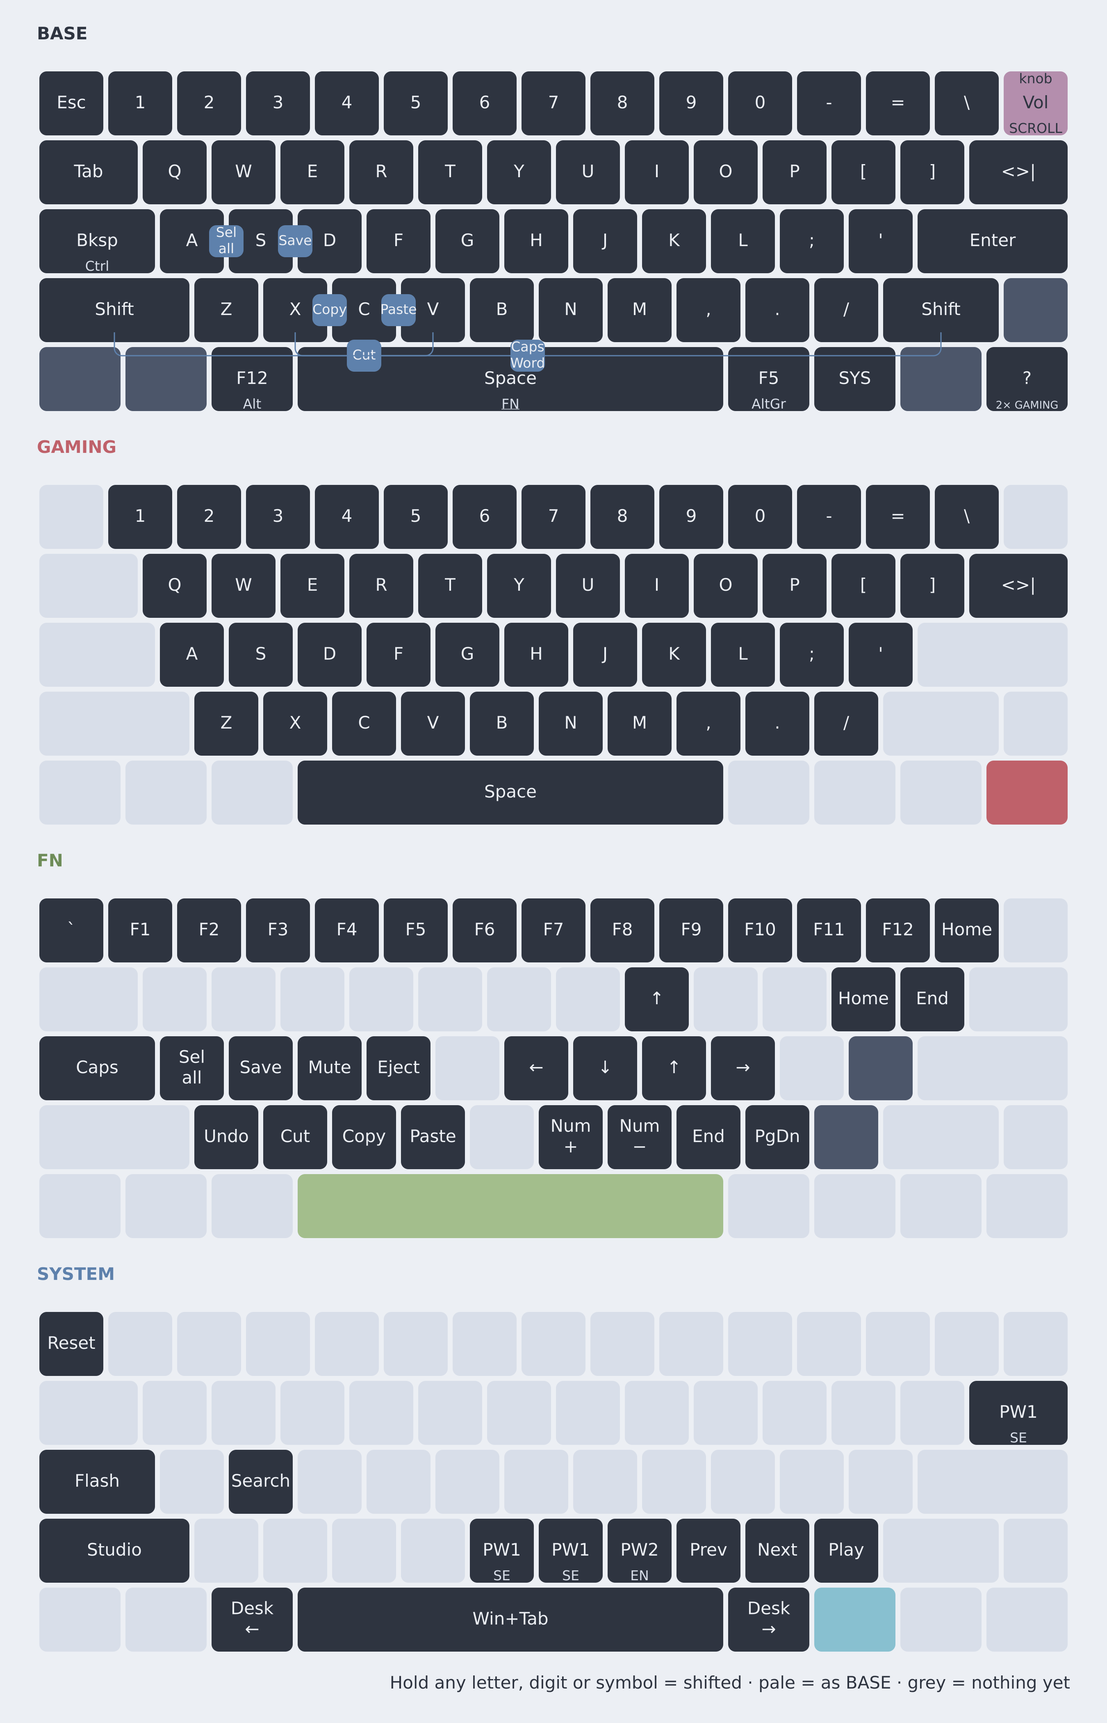
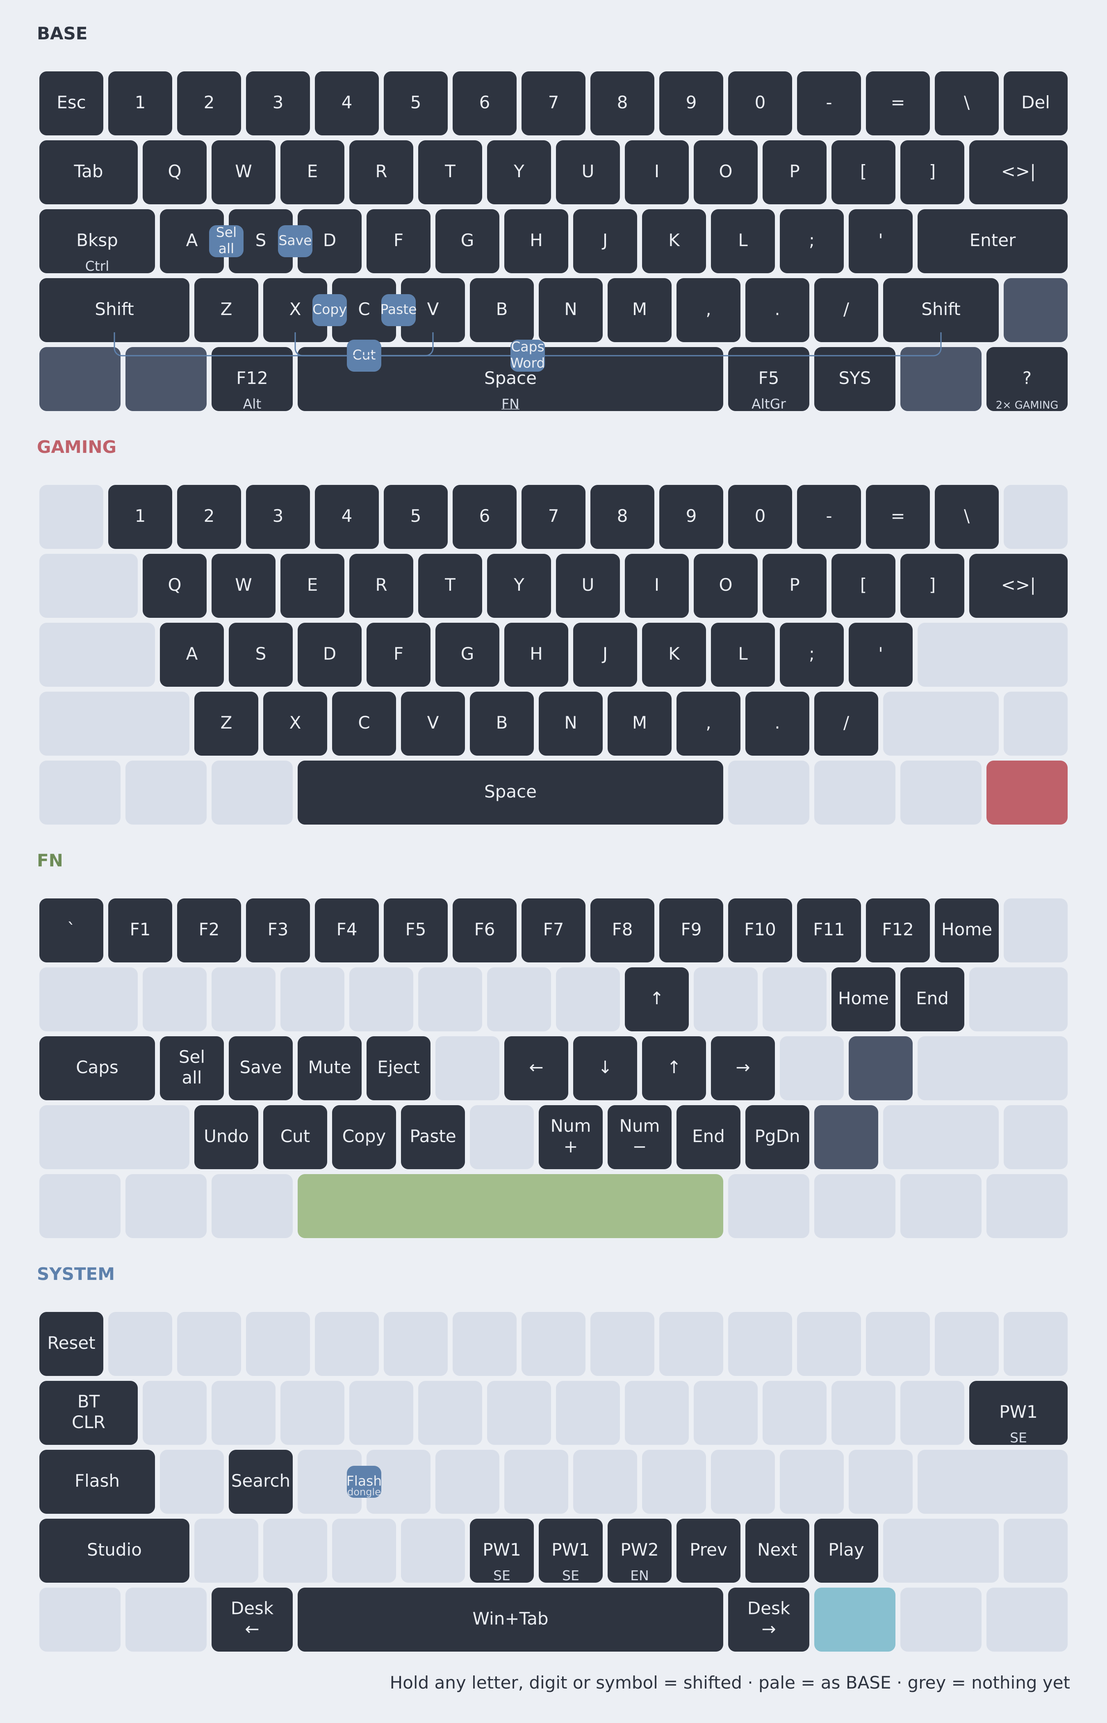
pros

Changed region(s): [[0.0311, 0.7798, 0.1244, 0.8421], [0.9022, 0.0312, 0.9644, 0.0936], [0.3111, 0.8421, 0.3422, 0.8733]]

diff --git a/boards/shields/prospector_screen/src/layouts/shoko/shoko_theme.h b/boards/shields/prospector_screen/src/layouts/shoko/shoko_theme.h
@@ -19,12 +19,21 @@
 #define SHOKO_PALE_D  0xC5D1DB // keycap skirt under a 656 C face
 #define SHOKO_SLATE_D 0x5C7B8E // keycap skirt under a 5425 C face
 #define SHOKO_AQUA_D  0x66BCD8 // keycap skirt under a 2975 C face
-#define SHOKO_NIGHT   0x16212A // GAMING ground
 #define SHOKO_CORAL   0xEE8C7F // the one warm colour: low battery only
 
+// The layer colours: the same as the keyboard's underglow
+// (layouts/operator/display_colors.h → layer_glow.c) and the keymap drawing,
+// so the screen and the keyboard always agree. Nord palette.
+#define LAYER_FN      0xA3BE8C // green
+#define LAYER_SYSTEM  0x88C0D0 // frost blue
+#define LAYER_GAMING  0xBF616A // red
+#define LAYER_SCROLL  0xB48EAD // purple
+
 // ── Scenes ───────────────────────────────────────────────────────────────────
-// Each layer gets its own scene: ground colour, inks, keycap colours, hero
-// block and katakana watermark. Scenes are matched to layers by display-name
+// Each layer gets its own scene: ground colour (BASE white like the case,
+// the others in their layer colour), inks, keycap colours, hero block and
+// katakana watermark. The mini keyboard and the WPM meter keep a clear step
+// from the ground: on the LCD, pale-on-pale disappears. Scenes are matched to layers by display-name
 // (see shoko_scene_for), so reordering layers in the keymap or Studio keeps
 // them; a layer with an unknown name gets the generic scene with its own name.
 
@@ -68,48 +77,48 @@ static const struct shoko_scene shoko_scenes[] = {
         .bg = SHOKO_WHITE, .ink = SHOKO_INK, .ink_soft = SHOKO_SLATE, .watermark = 0xF1F5F8,
         .cap = SHOKO_PALE, .cap_skirt = SHOKO_PALE_D, .cap_legend = SHOKO_SLATE,
         .cap_on = SHOKO_AQUA, .cap_on_skirt = SHOKO_AQUA_D, .cap_on_legend = SHOKO_INK,
-        .key_idle = 0xE8EEF2, .key_lit = 0xE8EEF2, .key_hot = SHOKO_AQUA_D,
-        .meter = SHOKO_AQUA,
+        .key_idle = 0xB4C4D0, .key_lit = 0xB4C4D0, .key_hot = 0x2C8DB4,
+        .meter = 0x2C8DB4,
     },
     {
-        // Aqua like Esc/Enter, white keycaps.
+        // Green, like FN's underglow; white keycaps.
         .match = "FN", .title = "FN", .caption = "F-KEYS  ARROWS  EDIT", .kana = "エフエヌ",
         .hero = SHOKO_HERO_TITLE,
-        .bg = SHOKO_AQUA, .ink = SHOKO_INK, .ink_soft = 0x3F7286, .watermark = 0x8ECFE4,
-        .cap = SHOKO_WHITE, .cap_skirt = 0x7FC6DE, .cap_legend = SHOKO_SLATE,
+        .bg = LAYER_FN, .ink = SHOKO_INK, .ink_soft = 0x4A6838, .watermark = 0x97B47F,
+        .cap = SHOKO_WHITE, .cap_skirt = 0x8BA873, .cap_legend = 0x4A6838,
         .cap_on = SHOKO_INK, .cap_on_skirt = 0x1A2B35, .cap_on_legend = SHOKO_WHITE,
-        .key_idle = 0x86CBE2, .key_lit = SHOKO_WHITE, .key_hot = SHOKO_INK,
+        .key_idle = 0x7C9A64, .key_lit = SHOKO_WHITE, .key_hot = SHOKO_INK,
         .meter = SHOKO_WHITE,
     },
     {
-        // Slate like the Shoko mods, pale legends.
+        // Frost blue, like SYSTEM's underglow; white keycaps.
         .match = "SYSTEM", .title = "SYS", .caption = "MEDIA  DESKTOPS  STUDIO", .kana = "システム",
         .hero = SHOKO_HERO_TITLE,
-        .bg = SHOKO_SLATE, .ink = SHOKO_WHITE, .ink_soft = SHOKO_PALE, .watermark = 0x7192A6,
-        .cap = 0x6A899C, .cap_skirt = 0x557285, .cap_legend = SHOKO_PALE,
-        .cap_on = SHOKO_AQUA, .cap_on_skirt = SHOKO_AQUA_D, .cap_on_legend = SHOKO_INK,
-        .key_idle = 0x6A899C, .key_lit = SHOKO_PALE, .key_hot = SHOKO_AQUA,
-        .meter = SHOKO_AQUA,
+        .bg = LAYER_SYSTEM, .ink = SHOKO_INK, .ink_soft = 0x386A7B, .watermark = 0x7CB5C6,
+        .cap = SHOKO_WHITE, .cap_skirt = 0x70ABBE, .cap_legend = 0x386A7B,
+        .cap_on = SHOKO_INK, .cap_on_skirt = 0x1A2B35, .cap_on_legend = SHOKO_WHITE,
+        .key_idle = 0x62A0B3, .key_lit = SHOKO_WHITE, .key_hot = SHOKO_INK,
+        .meter = SHOKO_WHITE,
     },
     {
-        // The pale alpha colour as ground.
+        // Purple, like SCROLL's underglow. Only reachable with the encoder fitted.
         .match = "SCROLL", .title = "SCROLL", .caption = "KNOB = WHEEL", .kana = "スクロール",
         .hero = SHOKO_HERO_SCROLL,
-        .bg = SHOKO_PALE, .ink = SHOKO_INK, .ink_soft = SHOKO_SLATE, .watermark = 0xCDD8E2,
-        .cap = SHOKO_WHITE, .cap_skirt = SHOKO_PALE_D, .cap_legend = SHOKO_SLATE,
-        .cap_on = SHOKO_AQUA, .cap_on_skirt = SHOKO_AQUA_D, .cap_on_legend = SHOKO_INK,
-        .key_idle = SHOKO_WHITE, .key_lit = SHOKO_WHITE, .key_hot = SHOKO_AQUA,
-        .meter = SHOKO_AQUA,
+        .bg = LAYER_SCROLL, .ink = SHOKO_INK, .ink_soft = 0x684A63, .watermark = 0xA883A1,
+        .cap = SHOKO_WHITE, .cap_skirt = 0x9C7896, .cap_legend = 0x684A63,
+        .cap_on = SHOKO_INK, .cap_on_skirt = 0x1A2B35, .cap_on_legend = SHOKO_WHITE,
+        .key_idle = 0x9A7393, .key_lit = SHOKO_WHITE, .key_hot = SHOKO_INK,
+        .meter = SHOKO_WHITE,
     },
     {
-        // Lights off: night ground, aqua glow.
+        // Red, like GAMING's underglow: loud on purpose. White keycaps light up.
         .match = "GAMING", .title = "GAME ON", .caption = "APM", .kana = "ゲーム",
         .hero = SHOKO_HERO_GAME,
-        .bg = SHOKO_NIGHT, .ink = SHOKO_AQUA, .ink_soft = 0x58768A, .watermark = 0x203039,
-        .cap = 0x24343F, .cap_skirt = 0x0E161C, .cap_legend = 0x8FAABB,
-        .cap_on = SHOKO_AQUA, .cap_on_skirt = 0x4C9DB8, .cap_on_legend = SHOKO_NIGHT,
-        .key_idle = 0x24343F, .key_lit = 0x24343F, .key_hot = SHOKO_AQUA,
-        .meter = SHOKO_AQUA,
+        .bg = LAYER_GAMING, .ink = SHOKO_WHITE, .ink_soft = 0xF4D2D5, .watermark = 0xB2545D,
+        .cap = 0xA34E57, .cap_skirt = 0x823A42, .cap_legend = 0xF4D2D5,
+        .cap_on = SHOKO_WHITE, .cap_on_skirt = 0xD9B8BC, .cap_on_legend = LAYER_GAMING,
+        .key_idle = 0xA34E57, .key_lit = 0xA34E57, .key_hot = SHOKO_WHITE,
+        .meter = SHOKO_WHITE,
     },
     {
         // Generic scene for any other layer: white, title = layer name.
@@ -118,8 +127,8 @@ static const struct shoko_scene shoko_scenes[] = {
         .bg = SHOKO_WHITE, .ink = SHOKO_INK, .ink_soft = SHOKO_SLATE, .watermark = 0xF1F5F8,
         .cap = SHOKO_PALE, .cap_skirt = SHOKO_PALE_D, .cap_legend = SHOKO_SLATE,
         .cap_on = SHOKO_AQUA, .cap_on_skirt = SHOKO_AQUA_D, .cap_on_legend = SHOKO_INK,
-        .key_idle = 0xE8EEF2, .key_lit = SHOKO_SLATE, .key_hot = SHOKO_AQUA_D,
-        .meter = SHOKO_AQUA,
+        .key_idle = 0xD0DAE2, .key_lit = 0x5C7B8E, .key_hot = 0x2C8DB4,
+        .meter = 0x2C8DB4,
     },
 };
 

diff --git a/boards/shields/prospector_screen/src/layouts/shoko/shoko_keys.h b/boards/shields/prospector_screen/src/layouts/shoko/shoko_keys.h
@@ -2,13 +2,14 @@
 
 #include <stdint.h>
 
-// Physical layout of this Cyber60 build (ANSI, 6.25u space, encoder top right)
+// Physical layout of this Cyber60 build (ANSI, 6.25u space, Del top right)
 // for the mini keyboard on the screen, in quarter key units. `pos` is the key
 // position in config/prospector_dongle.keymap.
 //
-// Positions with no switch on this build are left out: 14 (Del, where the
-// encoder sits), 41 (ISO #), 44 (ISO <>). The three Space positions 60-62 share
-// one key (see shoko_key_slot), and 67 is the encoder press, drawn as the knob.
+// Positions with no switch on this build are left out: 41 (ISO #), 44 (ISO <>)
+// and 67 (the encoder's press: a Del switch took the encoder's spot on
+// 2026-11-06). The three Space positions 60-62 share one key (see
+// shoko_key_slot).
 
 #define SHOKO_KEYMAP_LEN 68 // bindings per layer in the keymap
 
@@ -18,10 +19,10 @@ struct shoko_key {
 };
 
 static const struct shoko_key shoko_keys[] = {
-    // Row 0: Esc 1-0 - = \  + knob
+    // Row 0: Esc 1-0 - = \ Del
     {0, 0, 0, 4},   {1, 4, 0, 4},   {2, 8, 0, 4},   {3, 12, 0, 4},  {4, 16, 0, 4},
     {5, 20, 0, 4},  {6, 24, 0, 4},  {7, 28, 0, 4},  {8, 32, 0, 4},  {9, 36, 0, 4},
-    {10, 40, 0, 4}, {11, 44, 0, 4}, {12, 48, 0, 4}, {13, 52, 0, 4}, {67, 56, 0, 4},
+    {10, 40, 0, 4}, {11, 44, 0, 4}, {12, 48, 0, 4}, {13, 52, 0, 4}, {14, 56, 0, 4},
     // Row 1: Tab Q-] <>|
     {15, 0, 1, 6},  {16, 6, 1, 4},  {17, 10, 1, 4}, {18, 14, 1, 4}, {19, 18, 1, 4},
     {20, 22, 1, 4}, {21, 26, 1, 4}, {22, 30, 1, 4}, {23, 34, 1, 4}, {24, 38, 1, 4},
@@ -40,7 +41,7 @@ static const struct shoko_key shoko_keys[] = {
 };
 
 #define SHOKO_KEY_SLOTS (sizeof(shoko_keys) / sizeof(shoko_keys[0]))
-#define SHOKO_KNOB_POS 67
+#define SHOKO_KNOB_POS 67 // the encoder's press; only the Pi's page_keys.c still draws it
 
 // Key position → index into shoko_keys, or -1 if this build has no such key.
 static inline int shoko_key_slot(uint32_t pos) {

diff --git a/tools/shoko/preview/main.c b/tools/shoko/preview/main.c
@@ -1,7 +1,8 @@
 /*
  * Render the Shoko screen on a PC: runs shoko_ui.c against real LVGL with a
- * fake clock, plays a scripted session (typing, modifiers, every layer, the
- * encoder, gaming) and writes a PPM per frame at 30 fps plus named stills.
+ * fake clock, plays a scripted session (typing, modifiers, every layer the
+ * keyboard can reach, gaming) and writes a PPM per frame at 30 fps plus named
+ * stills. (SCROLL needs the encoder, which isn't fitted since 2026-11-06.)
  * tools/shoko/preview.sh builds it and turns the frames into PNG/MP4.
  */
 #include <stdio.h>
@@ -173,26 +174,6 @@ int main(int argc, char **argv) {
     layer("BASE");
     run(700);
 
-    // Encoder press: SCROLL
-    tap(67, 80);
-    layer("SCROLL");
-    run(700);
-    for (int i = 0; i < 6; i++) {
-        shoko_ui_scroll(1);
-        run(110);
-    }
-    run(200);
-    for (int i = 0; i < 3; i++) {
-        shoko_ui_scroll(-1);
-        run(140);
-    }
-    run(120);
-    still("4-scroll");
-    run(400);
-    tap(67, 80);
-    layer("BASE");
-    run(700);
-
     // Double-tap corner: GAMING
     tap(66, 60);
     run(80);
@@ -208,7 +189,7 @@ int main(int argc, char **argv) {
     run(250);
     shoko_ui_key(61, true);
     run(60);
-    still("5-gaming");
+    still("4-gaming");
     shoko_ui_key(61, false);
     shoko_ui_key(30, false);
     run(150);
@@ -228,7 +209,7 @@ int main(int argc, char **argv) {
     shoko_ui_set_battery(14, true);
     layer("MOUSE");
     run(900);
-    still("6-generic-capsword-lowbatt");
+    still("5-generic-capsword-lowbatt");
 
     printf("%d frames\n", frame);
     return 0;

diff --git a/boards/shields/prospector_screen/src/layouts/shoko/shoko_ui.c b/boards/shields/prospector_screen/src/layouts/shoko/shoko_ui.c
@@ -317,12 +317,7 @@ static void key_area(int slot, lv_area_t *a) {
     a->y2 = a->y1 + MAP_UNIT - MAP_GAP - 1;
 }
 
-static bool is_bound(uint8_t pos) {
-    if (pos == SHOKO_KNOB_POS) {
-        return false; // the knob press toggles SCROLL on every layer
-    }
-    return use_bound && (bound[pos / 8] & (1 << (pos % 8)));
-}
+static bool is_bound(uint8_t pos) { return use_bound && (bound[pos / 8] & (1 << (pos % 8))); }
 
 static void minimap_draw(lv_event_t *e) {
     lv_layer_t *layer = lv_event_get_layer(e);
@@ -337,14 +332,7 @@ static void minimap_draw(lv_event_t *e) {
         lv_color_t c = hex(is_bound(pos) ? scene->key_lit : scene->key_idle);
         d.bg_color = heat[i] ? lv_color_mix(hex(scene->key_hot), c, heat[i]) : c;
         d.radius = 3;
-        if (pos == SHOKO_KNOB_POS) {
-            d.radius = LV_RADIUS_CIRCLE;
-            d.border_width = 2;
-            d.border_color = hex(scene->ink_soft);
-            d.border_opa = LV_OPA_COVER;
-        }
         lv_draw_rect(layer, &d, &a);
-        d.border_width = 0;
     }
 }
 

diff --git a/KNOB.md b/KNOB.md
@@ -100,12 +100,12 @@ the row here, not how many (so it's 1 sensor, 1 LRA and 1 haptic driver).
 
 | # | Part | Qty | Search for | Notes | ~kr |
 |---|------|-----|------------|-------|-----|
-| 1 | **Waveshare ESP32-S3-Touch-AMOLED-1.75**, standard version without case | 1 | `ESP32-S3-Touch-AMOLED-1.75` (Waveshare SKU 31261) | Waveshare store, AliExpress (Waveshare's own shop) or The Pi Hut. Check the schematic first, see "Before ordering" | 350–450 |
-| 2 | **TMAG5273 3D Hall sensor board**, A2 version | 1 | `Adafruit 6490` | The A2 (±133/266 mT), not the A1: strong magnets 1–2 mm away max out the A1. Add a JST-SH (STEMMA QT/Qwiic) to male-header cable | 100–140 |
+| 1 | **Waveshare ESP32-S3-Touch-AMOLED-1.75**, standard version without case | 1 | `ESP32-S3-Touch-AMOLED-1.75` (Waveshare SKU 31261) | Waveshare store, AliExpress (Waveshare's own shop) or The Pi Hut. **Not the `-G` (GPS) version**: its GPS takes GPIO17/18, two of the three free header pins | 350–450 |
+| 2 | **TMAG5273 3D Hall sensor board**, A2 version | 1 | `Adafruit 6490`; in Sweden: Electrokit art. 41036412, 92 kr ("TMAG5273 (A2) - Qwiic", Adafruit) | The A2 (±133/266 mT), not the A1: strong magnets 1–2 mm away max out the A1. Add **2 × Qwiic to 4× Dupont female, 100 mm** (Electrokit art. 41023467, 29 kr): board header → sensor, sensor's 2nd Qwiic port → DRV2605L. Black GND → header pin 2, red 3.3 V → pin 3 (not pin 1, that's 5 V), blue SDA → pin 6 (GPIO17), yellow SCL → pin 7 (GPIO18). The sensor's INT pin is not in the Qwiic cable: one extra wire to pin 8 (GPIO16). Dupont plugs are tall, so for the final case these are probably soldered instead | 100–140 |
 | 3 | **The 24 ring magnets: neodymium discs Ø5 × 2 mm, N52, axially magnetised** | 30 (24 + 6 spare) | `S-05-02-N52N` on supermagnete.se, or on AliExpress `neodymium magnet 5x2mm N52` (50-pack) | **Buy these new, all in one batch**, so all 24 are equally strong. Your own (stronger) magnets go in the dock (#13), not the ring: 24 magnets have to fit round the ring about 10 mm apart, so Ø5 is about the limit, and bigger ones would also max out the sensor. supermagnete is about 3–4 kr each, AliExpress less | 40–120 |
 | 4 | **Bearing 6810-ZZ** (50 × 65 × 7 mm) | 1 | `6810ZZ bearing` | **ZZ** (metal shields), not 2RS (rubber seals drag). Wash out the grease and add a drop of light oil for a free spin | 50–100 |
 | 5 | **DRV2605L haptic driver board** | 1 | `Adafruit 2305`, or on AliExpress `DRV2605L module` | Adafruit's is about 85 kr at RS Sweden; AliExpress clones about 40 kr | 40–85 |
-| 6 | **LRA click motor: Vybronics VG1040003D**, 10 mm coin (10 × 4 mm, 170 Hz, 2.5 Vrms) | 1 | `VG1040003D` (DigiKey, Mouser) | About 65 kr at DigiKey. It has contact pads, not wires: solder on two thin wires. **Same size with wires already on:** Precision Microdrives `C10-100` (10 × 3.7 mm, 175 Hz). **Cheap AliExpress option:** `0832 LRA linear vibration motor` (8 × 3.2 mm, 235 Hz, with wires; fits the same spot). It must say **LRA** or "linear": a plain "coin vibration motor" is an ERM and only buzzes. The firmware runs the DRV2605L at the LRA's own frequency (Vybronics advises open-loop at 170 Hz for this one) | 30–70 |
+| 6 | **LRA click motor: Vybronics VG1040003D**, 10 mm coin (10 × 4 mm, 170 Hz, 2.5 Vrms) | 1 | `VG1040003D` (DigiKey, Mouser) | About 65 kr at DigiKey. It has contact pads, not wires: solder on two thin wires. **Same size with wires already on:** Precision Microdrives `C10-100` (10 × 3.7 mm, 175 Hz). **Cheap AliExpress option:** `0832 LRA linear vibration motor` (8 × 3.2 mm, 235 Hz, with wires; fits the same spot). It must say **LRA** or "linear": a plain "coin vibration motor" is an ERM and only buzzes. The firmware runs the DRV2605L at the LRA's own frequency (Vybronics advises open-loop at 170 Hz for this one). **Checked 2026-11-06:** no Swedish shop stocks an LRA (Electrokit, Kjell, Botland). Cheapest real one: DigiKey `VG0832012` (8 mm, 235 Hz, wires on), about 40 kr incl. moms, but DigiKey charges 170 kr shipping below 615 kr, so only order it as part of a bigger DigiKey order. Until then, start with the ERM coin motors from the AliExpress order: the DRV2605L's ERM click effects (overdrive + braking) give a short tap, softer than an LRA. An LRA salvaged from an old phone also works, since the DRV2605L finds its frequency by itself | 30–70 |
 | 7 | **Flat LiPo, ~3000 mAh**, with a protection circuit, **no bigger than 8.5 × 60 × 86 mm** | 1 | `805080 lipo 3000mAh` | The size code reads thickness-width-length: 805080 = 8 × 50 × 80 mm. The board takes a **2-pin MX1.25** plug. **Check the polarity with a multimeter before plugging in**: sellers wire it both ways | 100–150 |
 | 8 | Mouse micro switches | 3 | — | **You have these.** Modelled as Omron D2F size (12.8 × 5.8 × 6.5); tell me yours | 0 |
 | 9 | **USB-C panel-mount extension**, male to female with screw ears, 15–20 cm, angled male end if possible | 1 | `USB C panel mount extension cable` | Brings charging/flashing to the back of the base | 40–80 |
@@ -126,9 +126,19 @@ the row here, not how many (so it's 1 sensor, 1 LRA and 1 haptic driver).
 
 ### Before ordering
 
-- [ ] **Header pins:** Waveshare's pages don't say which pins of the 8-pin
-  header carry I2C. The sensor and the haptic driver need I2C, plus one free
-  GPIO for the sensor's wake-up interrupt. Read the board's schematic first.
+- [x] **Header pins** (checked 2026-11-06 in Waveshare's GitHub repo,
+  `HARDWARE_REFERENCE.md` + the BSP header): the 8-pin header is
+  1 VBUS, 2 GND, 3 3V3, 4 GPIO44/RX, 5 GPIO43/TX, 6 GPIO17, 7 GPIO18,
+  8 GPIO16. The board's own I2C bus (GPIO14/15) is **not** on it, and it
+  couldn't be used anyway: the touch chip (CST9217) sits at 0x5A, the same
+  fixed address as the DRV2605L. So the sensor and the haptic driver get
+  their own second I2C bus on **GPIO17 (SDA) / GPIO18 (SCL)** (the ESP32-S3
+  has two I2C controllers and can put them on any pin), the sensor's
+  wake-up interrupt goes on **GPIO16** (an RTC pin, so it can wake the board
+  from deep sleep), and power comes from pin 3 (3V3). The press switches can
+  use GPIO43 or 44. **Pin 1 (VBUS) is the USB 5 V rail**, so the dock's
+  charging contacts can feed it and the board's own AXP2101 charges the
+  battery: no extra charger board.
 - [ ] **Board size:** get the board's real outline and glass size from
   Waveshare's drawing. The model *assumes* Ø48 glass, a Ø46 board and 6 mm of
   parts behind it (`GLASS_D`, `PCB_D`, `PARTS_H` in `knob.py`).

diff --git a/README.md b/README.md
@@ -25,7 +25,7 @@ Today:
 
 ```
 Computer ←USB── Prospector dongle (keymap, screen, Studio)
-                    └──BLE── Cyber60 (keys, encoder, battery, underglow)
+                    └──BLE── Cyber60 (keys, battery, underglow)
 ```
 
 Later, with the desk screen (parked; the firmware for it is `tools/build.sh
@@ -46,13 +46,14 @@ software, nothing installed. The Pi's wifi only ever reaches the internet
 | # | Layer | How | Underglow |
 |---|-------|-----|-----------|
 | 0 | BASE | default. Letters, digits and symbols **auto-shift** (hold 175 ms) | off |
-| 1 | SCROLL | press the encoder (toggle): it scrolls instead of changing volume | purple |
+| 1 | SCROLL | press the encoder (toggle): it scrolls instead of changing volume. Idle while a Del switch sits in the encoder's spot (since 2026-11-06) | purple |
 | 2 | GAMING | double-tap the bottom-right corner key (toggle): plain keys, no combos | red |
 | 3 | FN | hold Space: F-keys, arrows on HJKL, ^Z/^X/^C/^V, Home/End | green |
 | 4 | SYSTEM | hold SYS: media, desktops, Win+Tab, passwords, bootloader, Studio unlock | blue |
 
 **Combos** (BASE and SCROLL): A+S = Ctrl+A, S+D = Ctrl+S, X+C = copy,
-C+V = paste, X+V = cut, both Shifts = Caps Word.
+C+V = paste, X+V = cut, both Shifts = Caps Word. On SYSTEM: D+F = put the
+**dongle** in bootloader mode, to flash it in place.
 
 The keymap is `config/cyber60.keymap` (the layer order matters: see the
 comment at its top). The dongle's `prospector_dongle.keymap` just includes
@@ -64,7 +65,8 @@ with [keymap-drawer](https://github.com/caksoylar/keymap-drawer) in Docker.
 ## The screens
 
 **Shoko**: the three Pantones on GMK Shoko's kit sheet (656 C pale, 5425 C
-slate, 2975 C aqua) on white. Each layer gets its own scene with a huge pale
+slate, 2975 C aqua). BASE is white; every other layer's scene takes its
+underglow colour (FN green, SYSTEM blue, GAMING red), with a huge pale
 katakana word behind it, and a keycap-row wipe runs between layers. A mini
 keyboard echoes your presses, and modifiers show as keycaps. On the
 Prospector: `boards/shields/prospector_screen/src/layouts/shoko/`, previewed
@@ -101,7 +103,7 @@ tools/build.sh update       # refresh ZMK/Zephyr (pinned to ZMK main in config/w
 | File | Flash to |
 |------|----------|
 | `firmware/cyber60.uf2` | the keyboard, as the dongle's peripheral: SYSTEM + Flash (the Ctrl/Bsp key), or double-tap reset, then drag the file onto the drive |
-| `firmware/dongle.uf2` | the Prospector: double-tap the XIAO's reset, drag the file |
+| `firmware/dongle.uf2` | the Prospector: SYSTEM + D + F on the keyboard (or double-tap the XIAO's reset, through the case's pin hole), drag the file |
 | `firmware/reset-*.uf2` | either, to wipe Bluetooth bonds; then flash the normal file |
 | `firmware/cyber60-pi.uf2` | the keyboard, standalone for the Pi desk screen (later) |
 
@@ -170,9 +172,9 @@ Items 1 to 4 wait until the desk screen comes back.
    stand-in for the Shelly cloud).
 3. **The desk screen's case** (`case/deck/README.md` lists the measurements).
 4. A read-only system on the Pi, so pulling the plug can never damage it.
-5. Keymap odds and ends: the `&none` keys marked TODO in the keymap, a home
-   for **Del** (top right on the M60-A, where the encoder is now), and whether
-   the M60-A's `~/.` macro comes along.
+5. Keymap odds and ends: the `&none` keys marked TODO in the keymap, and
+   whether the M60-A's `~/.` macro comes along. (Del got its home on
+   2026-11-06: a switch where the encoder was.)
 
 ## Where things come from
 

diff --git a/case/monitor/README.md b/case/monitor/README.md
@@ -103,7 +103,11 @@ tight under the monitor if the monitor isn't 67 mm deep there.
 
 ## Reset / flashing
 
-A pin hole in the base, near the back, sits under the XIAO's reset button.
+The everyday way needs no pin: hold SYSTEM on the keyboard and press D + F.
+The dongle restarts as a USB drive; drop `dongle.uf2` on it.
+
+For when the dongle's firmware won't start: a pin hole in the base, near the
+back (right beside the USB plug), sits under the XIAO's reset button.
 Double-tap it for the bootloader. As in the Shoko case, the button position
 comes from Seeed's photo, not a drawing (`RST_X` / `RST_Y`).
 
